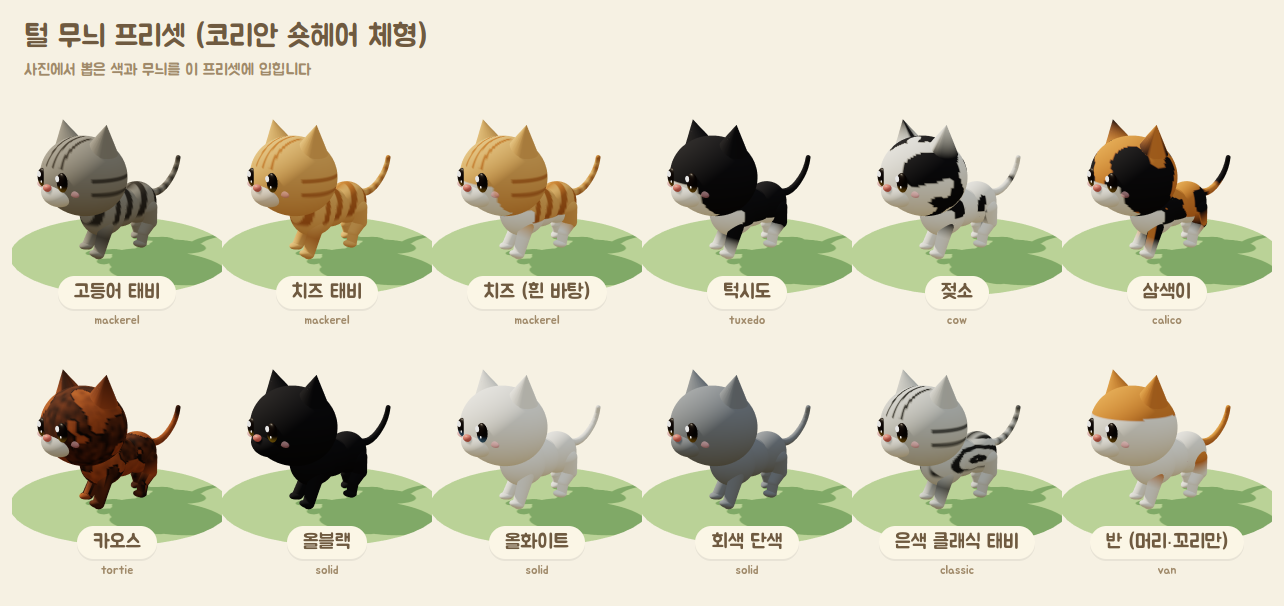
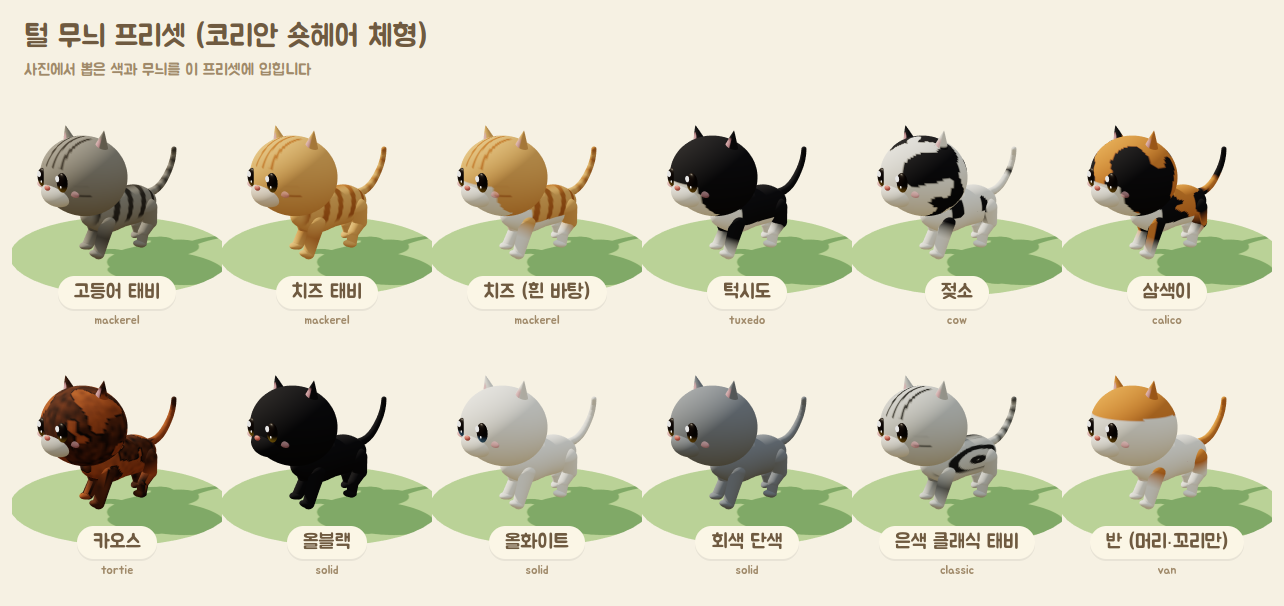
Polish cat model details after multi-angle review
- Single lofted torso (no chest/waist/hip seams), soft neck blob
- Lathe-built ears with painted inner ear (ConeGeometry with height segments
  rendered saw-tooth artefacts), sub-linear ear scaling, flatter fold ears,
  coat-coloured ear tufts
- Cheek stripes kept near the face; stripes fade at torso poles
- Continuous tail taper and bushy tails with rounded ends
- Smaller nose and cheeks, softer colour-point mask, no sphynx wrinkle lines
- Shadow bias in previews; add inspect.html multi-angle review sheet

Claude-Session: https://claude.ai/code/session_015vjHDFNeuhZBMk9pB9WgeS

diff --git a/cat-island/prototype/3d/catgen.js b/cat-island/prototype/3d/catgen.js
@@ -70,8 +70,8 @@ export function makeCoat(spec) {
       let t = 0;
       if (part === 'ear' || part === 'tail') t = 1;
       else if (part === 'leg') t = P === 'mitted' && info.t > .7 ? -1 : sstep(.1, .7, info.t);
-      else if (part === 'muzzle') t = P === 'mitted' ? 0 : .95;
-      else if (part === 'head') t = sstep(-.1, .55, info.dir.z - Math.abs(info.dir.x) * .6 - Math.max(0, info.dir.y) * .5);
+      else if (part === 'muzzle') t = P === 'mitted' ? 0 : .6;
+      else if (part === 'head') t = .8 * sstep(0, .6, info.dir.z - Math.abs(info.dir.x) * .7 - Math.max(0, info.dir.y) * .6);
       else if (part === 'body') t = .12 * sstep(.2, 1, info.ny);
       if (t < 0) return white.clone();
       if (P === 'mitted' && part === 'body' && info.ny < -.3 && info.nz > .3) return white.clone();
@@ -101,7 +101,7 @@ export function makeCoat(spec) {
     if (part === 'head') {
       const d = info.dir;
       if (d.y > .3 && d.z > 0 && Math.abs(d.x) < .42) s = sstep(.35, .75, Math.sin(d.x * 24));      // forehead "M"
-      if (Math.abs(d.x) > .84 && d.y > -.28 && d.y < .12 && d.z < .45) s = Math.max(s, sstep(.4, .8, Math.sin(d.y * 22)) * .8);  // cheek lines
+      if (Math.abs(d.x) > .62 && Math.abs(d.x) < .86 && d.z > .42 && d.y > -.3 && d.y < .02) s = Math.max(s, sstep(.55, .85, Math.sin(d.y * 26 + 1.2)) * .75);  // whisker-cheek lines
       if (P === 'ticked' || P === 'spotted') s *= .8;
     } else if (part === 'tail') {
       s = P === 'ticked' ? sstep(.75, .95, info.t) : sstep(.1, .6, Math.sin(info.t * 34)) * .85;
@@ -109,14 +109,15 @@ export function makeCoat(spec) {
       s = P === 'ticked' ? 0 : sstep(.2, .7, Math.sin(info.t * 16)) * sstep(.15, .35, info.t) * .7;
     } else if (part === 'body') {
       const { nx, ny, nz } = info;
-      const spine = sstep(.75, .95, ny) * (1 - Math.abs(nx) * 2);
-      if (P === 'mackerel') s = Math.max(spine, sstep(.15, .6, Math.sin(nz * 17 + ny * 2.2)) * sstep(-.45, -.15, ny));
+      const spine = sstep(.75, .95, ny) * (1 - Math.abs(nx) * 2) * (1 - sstep(.75, .95, Math.abs(nz)));
+      const poleFade = 1 - sstep(.72, .92, Math.abs(nz));
+      if (P === 'mackerel') s = Math.max(spine, sstep(.15, .6, Math.sin(nz * 17 + ny * 2.2)) * sstep(-.45, -.15, ny) * poleFade);
       else if (P === 'classic') {
         const r = Math.hypot(nz + .15, (ny - .1) * 1.3);
-        s = Math.max(spine, sstep(.1, .5, Math.sin(r * 12)) * sstep(-.5, -.2, ny) * sstep(.2, .5, Math.abs(nx)));
+        s = Math.max(spine, sstep(.1, .5, Math.sin(r * 12)) * sstep(-.5, -.2, ny) * sstep(.2, .5, Math.abs(nx)) * poleFade);
       } else if (P === 'spotted') {
         const n = vnoise(p.x * 9 + 11, p.y * 9, p.z * 9 + seed);
-        s = Math.max(spine * .6, sstep(.62, .7, n) * sstep(-.5, -.2, ny));
+        s = Math.max(spine * .6, sstep(.62, .7, n) * sstep(-.5, -.2, ny) * poleFade);
       } else if (P === 'ticked') {
         s = spine * .7;
         c.lerp(dark, vnoise(p.x * 40, p.y * 40, p.z * 40) * .22);
@@ -201,11 +202,19 @@ export function buildCat(shapeIn, coatSpec) {
   const fluffy = s.fur === 'long' ? 1.08 : s.fur === 'curly' ? 1.05 : 1;
   const bodyNorm = p => ({ nx: p.x / (.32 * B), ny: (p.y - bodyY) / (.34 * B), nz: p.z / (.9 * BL) });
 
-  // torso: deep chest, narrower waist, round hips (cats are not balls)
-  for (const [z, ry, rz, rx, yo] of [[.42, .36, .44, .33, .02], [0, .3, .42, .28, .03], [-.42, .33, .4, .31, .05]]) {
-    const g = ellipsoid(1, rx * B * fluffy, ry * B * fluffy, rz * BL, 72);
-    g.translate(0, yo, z * BL);
-    if (!hairless) furify(g, fur, z * 3);
+  // torso: one smooth lofted shape - deep chest, slight waist, round hips (no segment seams)
+  {
+    const g = new THREE.SphereGeometry(1, 120, 80);
+    g.rotateX(Math.PI / 2);                         // poles on the z axis (tail <-> chest)
+    const pos = g.attributes.position;
+    const prof = t => .305 + .055 * Math.exp(-(((t - .45) / .32) ** 2)) + .035 * Math.exp(-(((t + .5) / .3) ** 2));
+    for (let i = 0; i < pos.count; i++) {
+      const x = pos.getX(i), y = pos.getY(i), z = pos.getZ(i);
+      const r = prof(z) * B * fluffy;
+      pos.setXYZ(i, x * r * .93, y * r + .03 - .025 * Math.max(0, z), z * .9 * BL);
+    }
+    g.computeVertexNormals();
+    if (!hairless) furify(g, fur, 1);
     body.add(mk(g, 'body', 'bodyNorm', bodyMat));
   }
   if (s.ruff) {
@@ -252,10 +261,11 @@ export function buildCat(shapeIn, coatSpec) {
     const plume = s.tailFluff ? 1 + s.tailFluff * .9 : 1;
     for (let i = 0; i < tailN; i++) {
       const j = new THREE.Group(); parent.add(j);
-      const r = (.065 - .025 * i / tailN) * plume * (s.fur === 'curly' ? 1.2 : 1);
-      const g = capsuleY(r, r * .95, segLen, 18);
+      const rad = k => (plume > 1 ? .068 * plume * (1 - .22 * k) * (k > .85 ? Math.sqrt(Math.max(.15, 1 - ((k - .85) / .2) ** 2)) : 1) : .068 - .026 * k) * (s.fur === 'curly' ? 1.2 : 1);
+      const r0 = rad(i / tailN), r1 = rad((i + 1) / tailN);
+      const g = capsuleY(r0, r1, segLen, 24);
       g.rotateX(Math.PI);                    // grow backwards/upwards along +y of the joint
-      if (s.tailFluff || s.fur === 'curly') furify(g, { type: s.fur === 'curly' ? 'curly' : 'long', amount: 1.2 }, i);
+      if (s.fur === 'curly') furify(g, { type: 'curly', amount: 1 }, 0);
       j.add(mk(g, 'tail', { t0: i / tailN, t1: (i + 1) / tailN, len: segLen }, bodyMat));
       const next = new THREE.Group(); next.position.y = segLen; j.add(next);
       rig.tail.push(j); parent = next;
@@ -269,7 +279,7 @@ export function buildCat(shapeIn, coatSpec) {
   // neck + head
   const neck = new THREE.Group(); neck.position.set(0, .2, .62 * BL); body.add(neck); rig.neck = neck;
   {
-    const g = capsuleY(.17 * B * fluffy, .2 * B * fluffy, .14, 32); g.rotateX(Math.PI * .78);
+    const g = ellipsoid(1, .25 * B * fluffy, .27 * B * fluffy, .28, 64); g.translate(0, .1, .06);
     if (!hairless) furify(g, fur, 5);
     neck.add(mk(g, 'body', 'bodyNorm', bodyMat));
   }
@@ -280,30 +290,32 @@ export function buildCat(shapeIn, coatSpec) {
     if (!hairless) furify(g, { ...fur, amount: fur.amount * .7 }, 11);
     head.add(mk(g, 'head', 'headDir', bodyMat));
     if (s.cheek) for (const x of [-1, 1]) {
-      const c = ellipsoid(HS * .45, 1, .82, .8, 40); c.translate(x * HS * .62 * s.headW, -HS * .32, HS * .32);
+      const c = ellipsoid(HS * .38, 1, .8, .85, 48); c.translate(x * HS * .5 * s.headW, -HS * .3, HS * .36);
       head.add(mk(c, 'head', 'headDir', bodyMat));
-    }
-    if (s.wrinkles) for (const y of [.42, .52]) {
-      const w = new THREE.TorusGeometry(HS * .25, HS * .018, 6, 24, Math.PI * .7); w.rotateZ(Math.PI * .15); w.translate(0, HS * y, HS * .76);
-      head.add(mk(w, 'nose', null, MAT_SKIN));
     }
   }
   // ears
   for (const x of [-1, 1]) {
-    const es = s.earSize * HS / .42;
-    const eg = new THREE.ConeGeometry(.15 * es, .26 * es, 24, 1, false); eg.translate(0, .13 * es, 0);
-    const ig = new THREE.ConeGeometry(.09 * es, .17 * es, 18); ig.translate(0, .1 * es, .03 * es);
+    const es = Math.pow(s.earSize, .65) * HS / .42 * .82 * (s.ear === 'large' ? 1.15 : 1);
+    // one cone per ear (base sunk into the skull); the pink inner ear is painted on its front face
+    const eh = .36 * es, er0 = .16 * es;
+    // lathe cone (ConeGeometry with heightSegments > 1 flips half of its triangles in three r169)
+    const prof = [];
+    for (let k = 0; k <= 14; k++) { const t = k / 14; prof.push(new THREE.Vector2(Math.max(1e-4, er0 * (1 - t) * (1 - .12 * Math.sin(Math.PI * t))), -eh / 2 + eh * t)); }
+    const eg = new THREE.LatheGeometry(prof, 40); eg.translate(0, .08 * es, 0);
     const ear = new THREE.Group();
-    ear.add(mk(eg, 'ear', 'headDir', bodyMat), mk(ig, 'innerEar', null));
-    const ex = x * HS * .55 * s.headW, ey = HS * .62;
+    const earMesh = mk(eg, 'ear', { ear: true, h: eh, r: er0, y0: .08 * es - eh / 2 }, bodyMat);
+    earMesh.receiveShadow = false;   // thin cones self-shadow into moire bands
+    ear.add(earMesh);
+    const ex = x * HS * .5 * s.headW, ey = HS * .6;
     ear.position.set(ex, ey, -HS * .05);
-    if (s.ear === 'fold') { ear.scale.set(1.1, .6, 1); ear.rotation.set(1.25, 0, x * .5); ear.position.set(x * HS * .5, HS * .66, HS * .15); }
+    if (s.ear === 'fold') { ear.scale.set(1.08, .5, .72); ear.rotation.set(1.62, 0, x * .45); ear.position.set(x * HS * .44, HS * .76, HS * .16); }
     else if (s.ear === 'curl') { ear.rotation.set(-1.0, 0, -x * .2); }
-    else if (s.ear === 'large') { ear.rotation.set(0, 0, -x * .55); ear.position.x *= 1.05; }
+    else if (s.ear === 'large') { ear.rotation.set(0, 0, -x * .42); }
     else if (s.ear === 'small') { ear.scale.setScalar(.75); ear.rotation.set(.15, 0, -x * .45); }
     else ear.rotation.set(.05, 0, -x * .32);
     if (s.earTuft) {
-      const t = new THREE.ConeGeometry(.025 * es, .12 * es, 8); t.translate(0, .3 * es, 0);
+      const t = new THREE.ConeGeometry(.022 * es, .09 * es, 8); t.translate(0, .3 * es, 0);
       ear.add(mk(t, 'tuft', null));
     }
     head.add(ear);
@@ -314,7 +326,7 @@ export function buildCat(shapeIn, coatSpec) {
     const mz = ellipsoid(HS * .4, 1.2, .72, .7 * s.muzzleLen * (1 - flat * .5), 48);
     mz.translate(0, -HS * .3 + flat * HS * .06, HS * (.72 - flat * .14));
     head.add(mk(mz, 'muzzle', 'headDir', bodyMat));
-    const ng = ellipsoid(HS * .1, 1.25, .8, .8, 20); ng.translate(0, -HS * .14 + flat * HS * .1, HS * (.97 - flat * .2) * Math.min(1, s.muzzleLen * .1 + .9));
+    const ng = ellipsoid(HS * .072, 1.3, .78, .6, 20); ng.translate(0, -HS * .14 + flat * HS * .1, HS * (.97 - flat * .2) * Math.min(1, s.muzzleLen * .1 + .9));
     head.add(mk(ng, 'nose', null, MAT_GLOSS));
     // mouth: a tiny 'w' under the nose
     for (const x of [-1, 1]) {
@@ -353,8 +365,14 @@ export function buildCat(shapeIn, coatSpec) {
       v.fromBufferAttribute(pos, i);
       const p = w.copy(v).applyMatrix4(m).clone();
       let info = o.userData.info, c;
-      if (o.userData.part === 'tuft') c = C('#3a302a');
+      if (o.userData.part === 'tuft') c = colorAt('ear', p, { dir: new THREE.Vector3(0, 1, 0) }).multiplyScalar(.55);
       else if (o.userData.part === 'mouth') c = C('#3a2a24');
+      else if (info && info.ear) {
+        const y = (v.y - info.y0) / info.h, rr = Math.max(1e-4, info.r * (1 - y));
+        const outer = colorAt('ear', p, { dir: v.clone().applyMatrix4(mh).normalize() });
+        const w = sstep(.62, .82, v.z / rr) * sstep(.55, .38, Math.abs(v.x) / rr) * sstep(.28, .38, y) * sstep(.78, .66, y);
+        c = outer.lerp(colorAt('innerEar'), .8 * w);
+      }
       else if (o.userData.part === 'eye') {
         const t = (v.y - info.cy) / info.er;
         c = C('#271c18').lerp(colorAt('eye'), .5 * sstep(-.15, -.95, t));
@@ -415,7 +433,7 @@ export function setPose(cat, mode = 'walk', phase = 0) {
   // relaxed 'J': leaves the rump pointing back-down, then rises with a soft curl at the tip
   tail.forEach((j, i) => {
     const k = i / Math.max(1, tail.length - 1);
-    j.rotation.x = i === 0 ? -1.75 : (k < .7 ? .17 : .3) * curl;
+    j.rotation.x = i === 0 ? -1.45 : (k < .7 ? .15 : .28) * curl;
     j.rotation.z = (mode === 'walk' ? Math.sin(phase * TAU - k * 2) * .1 : .04) * curl;
   });
 }

diff --git a/cat-island/prototype/3d/inspect.html b/cat-island/prototype/3d/inspect.html
@@ -1,0 +1,30 @@
+<!doctype html>
+<html lang="ko"><head><meta charset="utf-8"><style>body{margin:0;background:#f6f1e3;font:14px sans-serif;color:#6f5a40}</style></head><body><div id="w"></div>
+<script type="importmap">{ "imports": { "three": "./node_modules/three/build/three.module.js" } }</script>
+<script type="module">
+import * as THREE from 'three';
+import { buildCat, setPose, BREEDS } from './catgen.js';
+// Inspection sheet: each breed from front / 3-4 / side / back / top, in stand and walk poses.
+const q = new URLSearchParams(location.search);
+const ids = (q.get('ids') || 'scottish_fold').split(',');
+const pose = q.get('pose') || 'walk';
+const views = [['front', [0, 1.1, 5.2]], ['3/4', [3.7, 1.6, 3.7]], ['side', [5.4, 1.0, .3]], ['back', [-1.2, 1.6, -5.0]], ['top', [.01, 6.2, .9]]];
+const CW = 300, CH = 280, W = CW * views.length, H = CH * ids.length;
+const r = new THREE.WebGLRenderer({ antialias: true, alpha: true, preserveDrawingBuffer: true });
+r.setPixelRatio(2); r.setSize(W, H); r.shadowMap.enabled = true; r.shadowMap.type = THREE.PCFSoftShadowMap;
+r.outputColorSpace = THREE.SRGBColorSpace; r.toneMapping = THREE.ACESFilmicToneMapping; r.setScissorTest(true);
+w.appendChild(r.domElement);
+ids.forEach((id, row) => {
+  const b = BREEDS.find(x => x.id === id);
+  views.forEach(([name, p], col) => {
+    const scene = new THREE.Scene();
+    scene.add(new THREE.HemisphereLight('#f2fbff', '#c9b892', 1.35));
+    const sun = new THREE.DirectionalLight('#fff4dc', 2); sun.position.set(-3, 6, 5); sun.castShadow = true; sun.shadow.bias = -0.0004; sun.shadow.normalBias = 0.03; sun.shadow.radius = 4; scene.add(sun);
+    const g = new THREE.Mesh(new THREE.CircleGeometry(2, 48), new THREE.MeshStandardMaterial({ color: '#a8db84' })); g.rotation.x = -Math.PI / 2; g.receiveShadow = true; scene.add(g);
+    const cat = buildCat(b.shape, b.coat); setPose(cat, pose, .1); scene.add(cat);
+    const k = b.shape.size || 1; const cam = new THREE.PerspectiveCamera(26, CW / CH, .1, 50); cam.position.set(p[0] * k, p[1] * k, p[2] * k); cam.lookAt(0, .75 * k, 0);
+    r.setViewport(col * CW, H - (row + 1) * CH, CW, CH); r.setScissor(col * CW, H - (row + 1) * CH, CW, CH); r.render(scene, cam);
+  });
+});
+window.__done = true;
+</script></body></html>

diff --git a/cat-island/prototype/3d/hero.html b/cat-island/prototype/3d/hero.html
@@ -15,7 +15,7 @@ ids.forEach((id, i) => {
   const b = BREEDS.find(x => x.id === id);
   const scene = new THREE.Scene();
   scene.add(new THREE.HemisphereLight('#f2fbff', '#c9b892', 1.35));
-  const sun = new THREE.DirectionalLight('#fff4dc', 2); sun.position.set(-3, 6, 5); sun.castShadow = true; sun.shadow.radius = 4; scene.add(sun);
+  const sun = new THREE.DirectionalLight('#fff4dc', 2); sun.position.set(-3, 6, 5); sun.castShadow = true; sun.shadow.bias = -0.0004; sun.shadow.normalBias = 0.03; sun.shadow.radius = 4; scene.add(sun);
   const g = new THREE.Mesh(new THREE.CircleGeometry(2, 48), new THREE.MeshStandardMaterial({ color: '#a8db84' })); g.rotation.x = -Math.PI / 2; g.receiveShadow = true; scene.add(g);
   const cat = buildCat(b.shape, b.coat); setPose(cat, 'walk', .1); cat.rotation.y = .6; scene.add(cat);
   const cam = new THREE.PerspectiveCamera(22, 1, .1, 50); cam.position.set(4.4, 2.3, 3.4); cam.lookAt(0, .85, .2);

diff --git a/cat-island/prototype/3d/walk.html b/cat-island/prototype/3d/walk.html
@@ -19,7 +19,7 @@ w.appendChild(r.domElement);
 for (let row = 0; row < 2; row++) for (let i = 0; i < N; i++) {
   const scene = new THREE.Scene();
   scene.add(new THREE.HemisphereLight('#f2fbff', '#c9b892', 1.35));
-  const sun = new THREE.DirectionalLight('#fff4dc', 2); sun.position.set(-3, 6, 5); sun.castShadow = true; sun.shadow.radius = 4; scene.add(sun);
+  const sun = new THREE.DirectionalLight('#fff4dc', 2); sun.position.set(-3, 6, 5); sun.castShadow = true; sun.shadow.bias = -0.0004; sun.shadow.normalBias = 0.03; sun.shadow.radius = 4; scene.add(sun);
   const g = new THREE.Mesh(new THREE.CircleGeometry(1.6, 48), new THREE.MeshStandardMaterial({ color: '#a8db84' })); g.rotation.x = -Math.PI / 2; g.receiveShadow = true; scene.add(g);
   const cat = buildCat(b.shape, b.coat); setPose(cat, 'walk', i / N); scene.add(cat);
   const cam = new THREE.PerspectiveCamera(24, 1, .1, 50);

diff --git a/cat-island/prototype/3d/catalog.html b/cat-island/prototype/3d/catalog.html
@@ -51,7 +51,7 @@ wrap.prepend(renderer.domElement);
 items.forEach((it, i) => {
   const scene = new THREE.Scene();
   scene.add(new THREE.HemisphereLight('#f2fbff', '#c9b892', 1.35));
-  const sun = new THREE.DirectionalLight('#fff4dc', 2.0); sun.position.set(-3, 6, 5); sun.castShadow = true;
+  const sun = new THREE.DirectionalLight('#fff4dc', 2.0); sun.position.set(-3, 6, 5); sun.castShadow = true; sun.shadow.bias = -0.0004; sun.shadow.normalBias = 0.03;
   sun.shadow.mapSize.set(1024, 1024); sun.shadow.radius = 5; Object.assign(sun.shadow.camera, { left: -3, right: 3, top: 3, bottom: -3 });
   scene.add(sun);
   const ground = new THREE.Mesh(new THREE.CircleGeometry(1.7, 48), new THREE.MeshStandardMaterial({ color: '#a8db84', roughness: 1 }));
